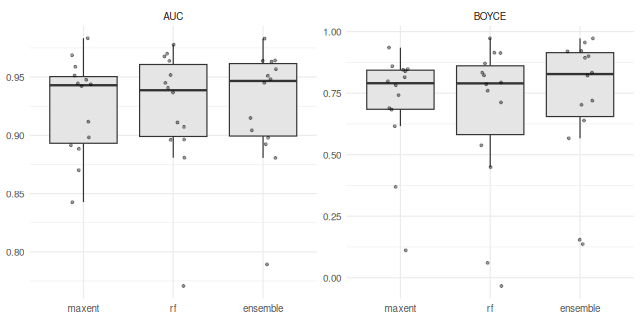
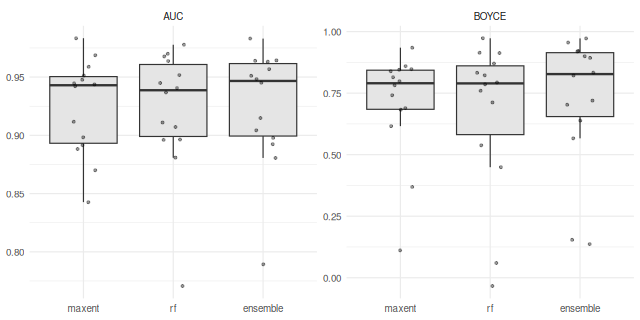
Vignette: show richness as a band between normalised strict and lenient counts
The strict (p10) and lenient (TSS) richness series are each divided by
their own median, kernel-smoothed separately, and drawn as the band between
them. README and NEWS describe it.

diff --git a/README.md b/README.md
@@ -135,6 +135,9 @@ suitabilities, which needs no threshold. `richness_surface()` and
 * `presence_thresholds(res, db)` gives each model's p10 threshold together
   with a TSS-maximising and a minimum-presence threshold, so presence can be
   read as a band from strict to lenient rather than a single line.
+  `vignette("middle-east")` plots richness this way: the strict and lenient
+  counts are each divided by their own median, smoothed separately, and drawn
+  as the band between them.
 
 ## Where the data comes from
 

diff --git a/NEWS.md b/NEWS.md
@@ -53,6 +53,9 @@
 * New precomputed vignette, `vignette("middle-east")`: Middle Eastern
   ungulates on Beyer2020, 120 ka to present, with a focus area on
   Mediterranean Israel. `vignettes/precompute.R` re-renders it.
+  Richness is shown as a band between the strict (p10) and lenient (TSS)
+  counts, each divided by its own median and kernel-smoothed separately;
+  each taxon's panel shows its own strict-to-lenient band.
 * README rewritten around the pipeline; PDF reference manual
   (`richcast-manual.pdf`).
 
